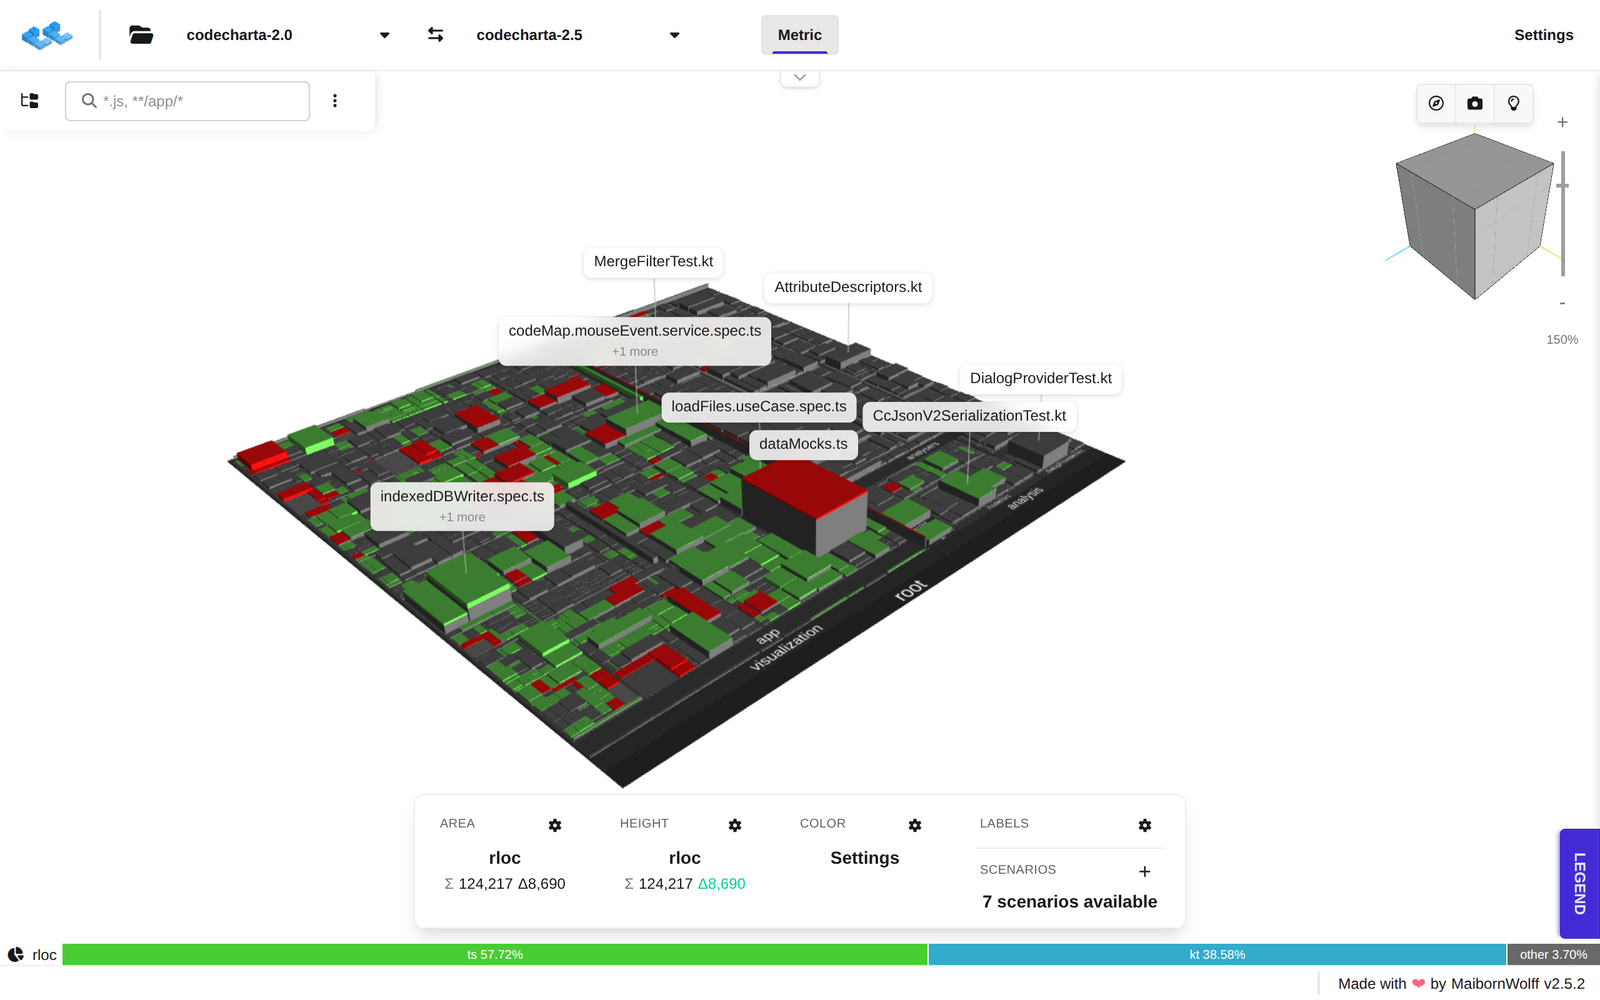
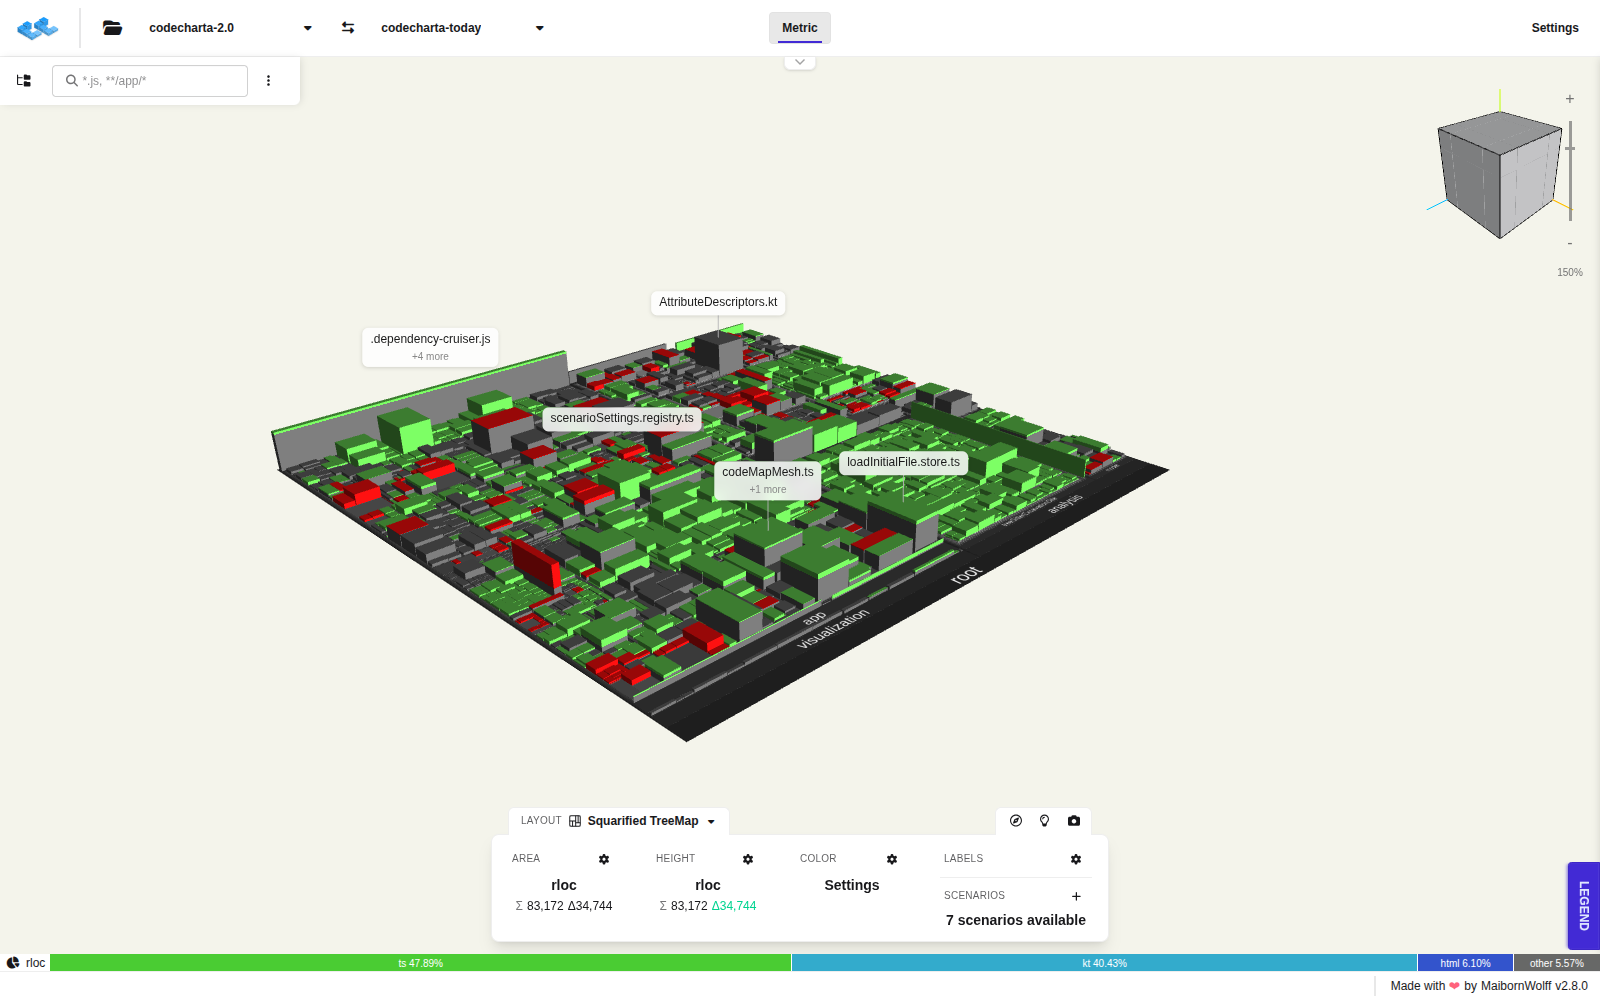
docs(readme): show the three views and ccsh analyse
Present the Metric, Domain and Dependencies views and Compare with fresh captures and click-through GIFs, start the
quickstart with ccsh analyse, mention the quality gate and link to codecharta.com.

Claude-Session: https://claude.ai/code/session_013RwnKgUCkz77hP6uvnPgrL

diff --git a/README.md b/README.md
@@ -8,15 +8,15 @@
   <h3>See how your code is built, and what it is about.</h3>
 
   <p>
-    CodeCharta turns any codebase into a 3D city of metrics and a map of its domain language.<br>
-    Spot hotspots in seconds. Show your team what you mean instead of explaining it.
+    CodeCharta turns any codebase into a 3D city of metrics, a map of its domain language and a graph of its dependencies.<br>
+    Find the hotspots in minutes, and show your team what you mean instead of explaining it.
   </p>
 
   <p>
     <a href="https://codecharta.com/visualization/app/index.html?file=codecharta_visualization.cc.json.gz&file=codecharta_analysis.cc.json.gz&currentFilesAreSampleFiles=true"><b>▶ Try the live demo</b></a> •
     <a href="https://codecharta.com/stg/visualization/index.html?file=codecharta_visualization.cc.json.gz&file=codecharta_analysis.cc.json.gz&area=rloc&height=functions&color=sonar_complexity&edge=dependencies&currentFilesAreSampleFiles=true">Staging demo</a> •
     <a href="#quickstart">Quickstart</a> •
-    <a href="https://maibornwolff.github.io/codecharta/">Documentation</a> •
+    <a href="https://codecharta.com/docs/overview/introduction">Documentation</a> •
     <a href="https://github.com/MaibornWolff/codecharta/releases">Releases</a>
   </p>
 
@@ -44,13 +44,7 @@
   </p>
 </div>
 
-<p align="center">
-  <img src="assets/hero-metric.png" alt="CodeCharta's own code as a 3D city: area is lines of code, height and color are complexity" width="49%">
-  <img src="assets/hero-domain.png" alt="CodeCharta's own domain vocabulary as a word cloud" width="49%">
-</p>
-<p align="center"><sub>CodeCharta analysing itself. <b>Left:</b> every building is a file, big and red means large and complex. <b>Right:</b> the words the code is written in.</sub></p>
-
-## Two views of one codebase
+## Three views of one codebase
 
 ### 🏙 Metric view: find the hotspots
 
@@ -61,13 +55,14 @@ stick out of the skyline.
 - **Hotspots:** big + tall + red = large, complex and changed all the time
 - **Knowledge silos:** color by number of authors to find code only one person understands
 - **Temporal coupling:** edges connect files that always change together, even without an import
-- **Filter and focus:** search, flatten or exclude files, including by rule like `complexity > 50`
+- **Filter and focus:** search, flatten or exclude files, also by rule like `complexity > 50`
 - **Scenarios:** built-in and saved presets for complexity, code smells, authors and more
 - **3D print:** export the city as a 3D model and put your codebase on the table
 
 <p align="center">
-  <img src="assets/tour.gif" alt="Rotating the metric city of CodeCharta, then switching to the domain view" width="80%">
+  <img src="assets/metric.gif" alt="Hovering and selecting buildings in CodeCharta's metric city, focusing the visualization folder from the context menu and turning the map" width="90%">
 </p>
+<p align="center"><sub>Hover a building to see its values and dependencies, select it for all its metrics, focus a folder to zoom in.</sub></p>
 
 ### 🔤 Domain view: read what the code is about
 
@@ -84,12 +79,27 @@ scores every word by frequency and **TF-IDF**. The result is the vocabulary of y
 </p>
 <p align="center"><sub>Where does "commit" live? 95% in <code>analysis</code>, where the git log parser is.</sub></p>
 
-### 📈 Delta view: see what changed
+### 🔗 Dependencies view: see the structure
 
-Load two versions and compare them. Green grew, red shrank, and you see where a release actually happened.
+The dependency parser reads the imports of your code, and the graph stacks every folder by level: what a box depends
+on lies below it. In a cleanly layered codebase every edge points down, so the ones that don't stand out.
+
+- **Cycles and upward dependencies:** red edges and badges mark what breaks the layering
+- **Open what you need:** double-click a folder to see its contents, a file to see its declarations
+- **Uses and used by:** select a box and the inspector lists its dependencies in both directions
+- **Folders or packages:** arrange the graph by folder or by the packages the code declares
 
 <p align="center">
-  <img src="assets/delta.png" alt="Delta between CodeCharta 2.0 and 2.5: green buildings grew, red shrank" width="80%">
+  <img src="assets/dependencies.gif" alt="Opening the analysis and analysers folders in the dependency graph, hovering and selecting parsers to see its edges and inspector, then selecting filters and opening its Uses list" width="90%">
+</p>
+<p align="center"><sub>Open a folder, hover a box to see its edges, select it to see what it uses and what uses it.</sub></p>
+
+### 📈 Compare: see what changed
+
+Load two versions and compare them. Green grew, red shrank, and you see where the work actually happened.
+
+<p align="center">
+  <img src="assets/delta.png" alt="Delta between CodeCharta 2.0 and today: green buildings grew, red shrank" width="80%">
 </p>
 
 ## Quickstart
@@ -104,19 +114,32 @@ npm i -g codecharta-analysis
 
 ```bash
 cd my-project
+ccsh analyse    # opinionated selection of parsers and options to get started, merged into my-project.cc.json.gz
+```
+
+Want more control? Run the parsers one by one and merge their results:
+
+```bash
 ccsh unifiedparser . -o metrics.cc.json.gz                   # size, complexity, functions
 ccsh gitlogparser repo-scan --repo-path . -o git.cc.json.gz  # commits, authors, coupling
 ccsh domainlanguageparser . --ngrams=2 -o domain.cc.json.gz  # domain words and phrases
-ccsh merge metrics.cc.json.gz git.cc.json.gz domain.cc.json.gz -o my-project.cc.json.gz
+ccsh dependencyparser . -o deps.cc.json.gz                   # imports, cycles, layering
+ccsh merge metrics.cc.json.gz git.cc.json.gz domain.cc.json.gz deps.cc.json.gz -o my-project.cc.json.gz
 ```
 
-Or let [`simplecc.sh`](analysis/script/simplecc.sh) run every analysis available on your machine and merge the
-results for you. Not sure which command you need? `ccsh -i` asks you step by step.
+Not sure which command you need? `ccsh` without arguments suggests the analysers that fit the current folder, and
+`ccsh -i` walks you through any command step by step.
 
-**3. Open it** in the [Web Studio](https://codecharta.com/visualization/app/index.html): drag and drop the
-file, done.
+**3. Open it** in the [Web Studio](https://codecharta.com/visualization/app/index.html) with the folder button
+(**Load cc.json files**).
 
-Prefer a desktop app or Docker? See [Getting started](https://maibornwolff.github.io/codecharta/docs/overview/getting-started).
+Prefer Docker or the desktop app? See [Getting started](https://codecharta.com/docs/overview/getting-started).
+
+## Keep it in shape
+
+`ccsh gate` checks a project against your own limits per metric and against its dependency rules, and fails the build
+when one breaks. Run it in CI, in a git hook or after an AI agent. The gate is experimental; see the
+[quality gate](https://codecharta.com/docs/analysis/quality-gate).
 
 ## Your data stays local
 
@@ -127,23 +150,21 @@ There is no analytics, tracking or telemetry.
 
 | | |
 | --- | --- |
-| **Source code** | [Unified parser](https://maibornwolff.github.io/codecharta/docs/parser/unified): Java, Kotlin, TypeScript, JavaScript, Python, C#, C, C++, Go, Rust, PHP, Ruby, Swift, Objective-C, Vue, Bash, Delphi, Angular templates, SQL |
-| **Domain language** | [Domain language parser](https://maibornwolff.github.io/codecharta/docs/parser/domain-language): words and phrases with frequency and TF-IDF |
-| **Version control** | [Git log](https://maibornwolff.github.io/codecharta/docs/parser/git-log), [SVN log](https://maibornwolff.github.io/codecharta/docs/parser/svn-log) |
-| **Any text** | [Raw text](https://maibornwolff.github.io/codecharta/docs/parser/raw-text): indentation levels for any language |
-| **Your other tools** | [SonarQube](https://maibornwolff.github.io/codecharta/docs/importer/sonar), [Coverage](https://maibornwolff.github.io/codecharta/docs/importer/coverage), [DependaCharta](https://maibornwolff.github.io/codecharta/docs/importer/dependacharta), [Tokei](https://maibornwolff.github.io/codecharta/docs/importer/tokei), [Code Maat](https://maibornwolff.github.io/codecharta/docs/importer/code-maat), [SourceMonitor](https://maibornwolff.github.io/codecharta/docs/importer/sourcemonitor), [CSV](https://maibornwolff.github.io/codecharta/docs/importer/csv) |
+| **Source code** | [Unified parser](https://codecharta.com/docs/parser/unified): Java, Kotlin, TypeScript, JavaScript, Python, C#, C, C++, Go, Rust, PHP, Ruby, Swift, Objective-C, Vue, Bash, Delphi, Angular templates, SQL |
+| **Dependencies** | [Dependency parser](https://codecharta.com/docs/parser/dependency): imports between files, cycles and upward dependencies |
+| **Domain language** | [Domain language parser](https://codecharta.com/docs/parser/domain-language): words and phrases with frequency and TF-IDF |
+| **Version control** | [Git log](https://codecharta.com/docs/parser/git-log), [SVN log](https://codecharta.com/docs/parser/svn-log) |
+| **Any text** | [Raw text](https://codecharta.com/docs/parser/raw-text): indentation levels for any language |
+| **Your other tools** | [SonarQube](https://codecharta.com/docs/importer/sonar), [Coverage](https://codecharta.com/docs/importer/coverage), [Tokei](https://codecharta.com/docs/importer/tokei), [Code Maat](https://codecharta.com/docs/importer/code-maat), [SourceMonitor](https://codecharta.com/docs/importer/sourcemonitor), [CSV](https://codecharta.com/docs/importer/csv) |
 
-[Merge](https://maibornwolff.github.io/codecharta/docs/filter/merge-filter) any combination into one map,
-[reshape](https://maibornwolff.github.io/codecharta/docs/filter/structure-modifier) its folder tree, or
-[export it to CSV](https://maibornwolff.github.io/codecharta/docs/exporter/csv).
+[Merge](https://codecharta.com/docs/filter/merge-filter) any combination into one map,
+[reshape](https://codecharta.com/docs/filter/structure-modifier) its folder tree, or
+[export it to CSV](https://codecharta.com/docs/exporter/csv).
 
-## Get Involved
+## Get involved
 
-Do you have a **bug**, **feature request**, or question? Please open [a new issue](https://github.com/MaibornWolff/codecharta/issues/new).
-Feedback is always welcome.
-
-Want **more information**? Check out our [documentation](https://maibornwolff.github.io/codecharta/)
-and [release notes](https://github.com/MaibornWolff/codecharta/releases).
+Found a **bug**, have a **feature request** or a question? Please open [a new issue](https://github.com/MaibornWolff/codecharta/issues/new).
+Feedback is always welcome, and so are pull requests: start with the [contributing guide](dev_docs/CONTRIBUTING.md).
 
 ## Service Offerings
 
@@ -156,10 +177,10 @@ more: [Software Health Check](https://www.maibornwolff.de/en/software-health-che
 
 ## Links
 
-- [Documentation](https://maibornwolff.github.io/codecharta/)
-- [Quickstart Guide](https://maibornwolff.github.io/codecharta/docs/overview/getting-started)
+- [Documentation](https://codecharta.com/docs/overview/introduction)
+- [Getting started](https://codecharta.com/docs/overview/getting-started)
+- [Examples](https://codecharta.com/examples)
 - [Releases](https://github.com/MaibornWolff/codecharta/releases)
-- [Coverage](https://maibornwolff.github.io/codecharta/visualization/coverage/lcov-report/)
 - [Analysis - Changelog](analysis/CHANGELOG.md) | [Visualization - Changelog](visualization/CHANGELOG.md)
 - [Contributing](dev_docs/CONTRIBUTING.md)
 - [Code of Conduct](dev_docs/CODE_OF_CONDUCT.md)
